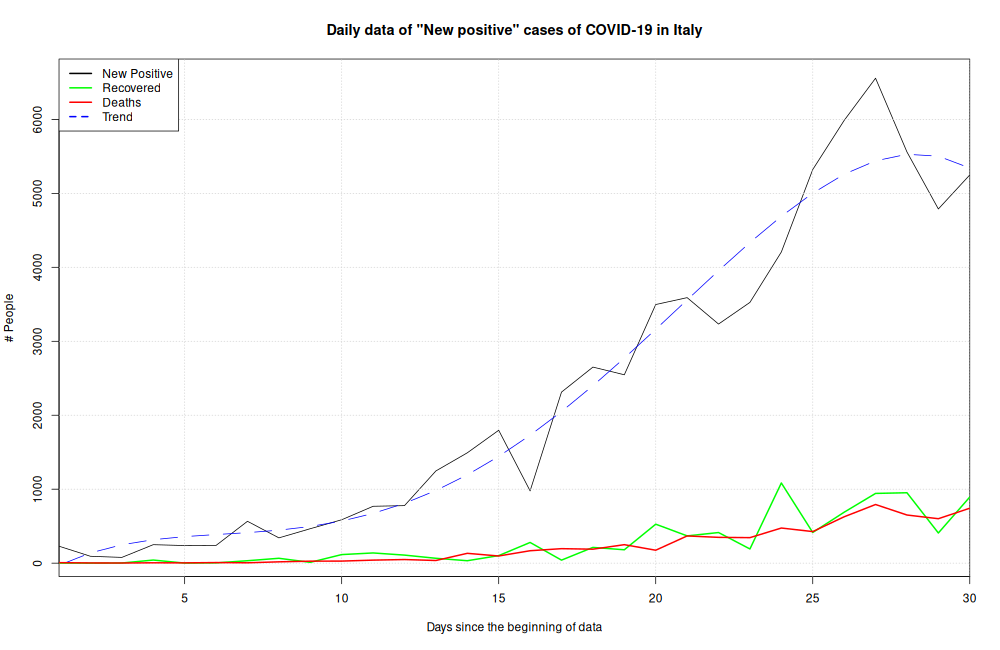
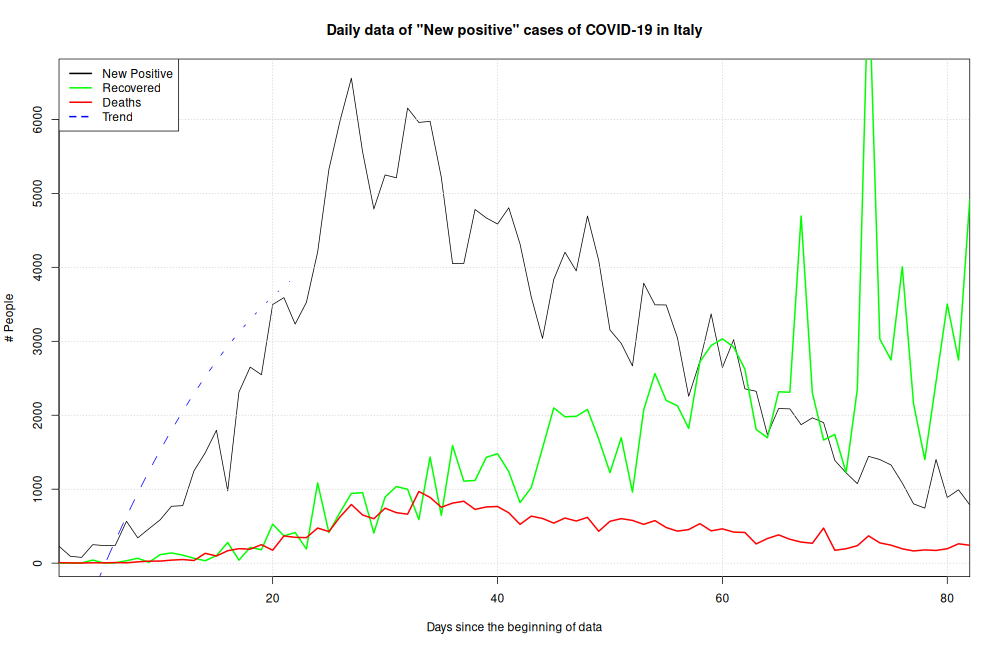
updated submodule

diff --git a/README.md b/README.md
@@ -8,4 +8,4 @@ I don't have anything against the data of the official repository and how they'r
 - R
 
 ![example of result](https://github.com/BerenLuth/COVID-19-IT-new-positive/blob/master/example.png)
-_This is an example of the plot made in 24/03/2020_
+_This is an example of the plot made in 16/05/2020_
